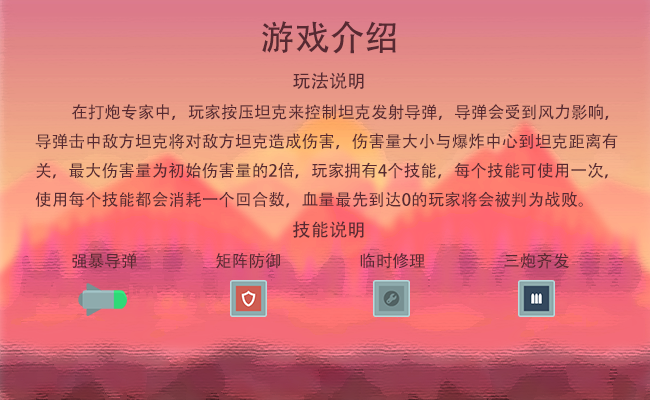
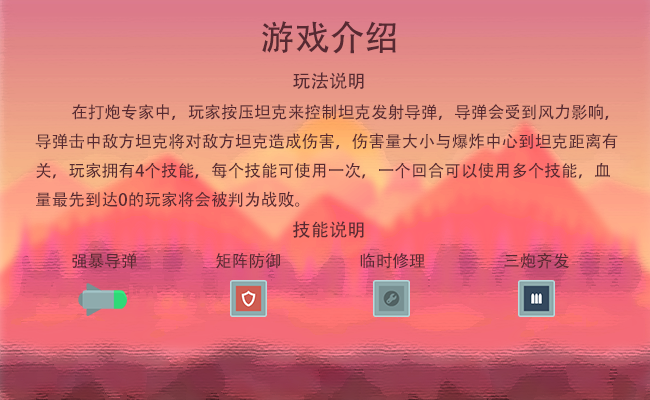
将参数修改放在了global文件里，修复了几个Bug(技能触发，出界)，隐藏了turnUI,伤害量的计算还没做好

Changed region(s): [[0.0923, 0.39, 0.9538, 0.45], [0.0308, 0.48, 0.8923, 0.54]]

diff --git a/Classes/FireMaster.cpp b/Classes/FireMaster.cpp
@@ -130,12 +130,13 @@ void FireMaster::addSprite() {
 	topUI->setScale(1.4, 1.3);
 	this->addChild(topUI, 4);
 
+#ifdef DEBUG
     turnUI = Label::createWithTTF("Round:0 right", "fonts/arial.ttf", 36);
     turnUI->setAnchorPoint(Point(0.5, 0.5));
     turnUI->setPosition(visibleSize.width / 2, visibleSize.height - 180);
     //turnUI->setScale(1.4, 1.3);
     this->addChild(turnUI, 1);
-#ifdef DEBUG
+
     this->schedule(schedule_selector(FireMaster::updateTurnUI), 0.1);
 #endif
 
@@ -270,11 +271,12 @@ void FireMaster::updateBulletVelocity(float ft) {
 			auto vX = bullet->getPhysicsBody()->getVelocity().x;
 			auto vY = bullet->getPhysicsBody()->getVelocity().y;
 			//具体加速度参数到时候再改
-			bullet->getPhysicsBody()->setVelocity(Vec2(vX + F * 5, vY));
+			bullet->getPhysicsBody()->setVelocity(Vec2(vX + F * Global::windPower, vY));
 		}
 	}
 }
 
+//进入下一回合
 void FireMaster::nextTurn()
 {
 	if (Global::isGameover) return;
@@ -314,10 +316,10 @@ void FireMaster::nextTurn()
 	waitClock->setVisible(true);
 }
 
+//debug模式下才会开启
 void FireMaster::updateTurnUI(float ft)
 {
 	if (Global::isGameover) return;
-
     auto curr_turn = std::to_string(Global::turn);
     auto side = ((Global::turn % 2) == 0) ? "right" : "left";
     auto newstr = "Round:" + curr_turn + " " + side;
@@ -358,11 +360,13 @@ void FireMaster::updateCollision(float ft)
         this->addChild(rectNode, 2);
 #endif
 
-
-        if (bpos.x < 0 || bpos.y < 0 || bpos.x > visibleSize.width) {
+		//出界判断, 运行在界外因为风力吹回来
+        if (bpos.x < -100 || bpos.y < 0 || bpos.x > visibleSize.width + 100) {
             b->removeFromParentAndCleanup(true);
             Global::bullets.pop_front();
-			nextTurn();
+			if (Global::bullets.empty()) {
+				nextTurn();
+			}
             return;
         }
 
@@ -378,21 +382,30 @@ void FireMaster::updateCollision(float ft)
 			Rect rect = Rect(bpos.x - 125, bpos.y - 125, 250, 250);
 			//判断子弹和坦克中心点距离
 			float distance;
+
 			//炸到了yellowtank
 			if (m_checkingRects[4].intersectsRect(rect)) {
 				distance =sqrt((bpos.x - yellowTank->getPosition().x)*(bpos.x - yellowTank->getPosition().x)
 					+(bpos.y - yellowTank->getPosition().y)*(bpos.y - yellowTank->getPosition().y));
 
+				CCString* ns = CCString::createWithFormat("bx = %f, tx = %f, by = %f, ty = %f", bpos.x, blueTank->getPosition().x, bpos.y, blueTank->getPosition().y);
+				CCLOG(ns->getCString());
+
 				float currentHp = hp2->getPercentage();
-				//0.6是暂定的，调整这个比例可以控制扣血的量
 
                 if (!defence2->isVisible()) {
-                    currentHp -= 0.06 * (31 - distance / 10) * b->getHurtness();
+					auto subHp = (31 - distance / 10) / 23 * b->getHurtness();
+
+					ns = CCString::createWithFormat("distance = %f, hurt = %f", distance, subHp);
+					CCLOG(ns->getCString());
+
+                    currentHp -= subHp;
                 }
                 else {
                     defence2->setVisible(false);
                 }
            
+				//测试gameover
 				//currentHp = 0;
 
 				hp2->setProgress(currentHp);
@@ -406,18 +419,29 @@ void FireMaster::updateCollision(float ft)
 
 			//炸到了bluetank
 			if (m_checkingRects[5].intersectsRect(rect)) {
+
 				distance = sqrt((bpos.x - blueTank->getPosition().x)*(bpos.x - blueTank->getPosition().x)
 					+ (bpos.y - blueTank->getPosition().y)*(bpos.y - blueTank->getPosition().y));
 
+				CCString* ns = CCString::createWithFormat("bx = %f, tx = %f, by = %f, ty = %f", bpos.x, blueTank->getPosition().x, bpos.y, blueTank->getPosition().y);
+				CCLOG(ns->getCString());
+				
+
 				float currentHp = hp1->getPercentage();
-				//0.6是暂定的，调整这个比例可以控制扣血的量
+
                 if (!defence1->isVisible()) {
-                    currentHp -= 0.06 * (31 - distance / 10) * b->getHurtness();
+					auto subHp = (31 - distance / 10) / 23 * b->getHurtness();
+
+					ns = CCString::createWithFormat("distance = %f, hurt = %f",distance, subHp);
+					CCLOG(ns->getCString());
+
+					currentHp -= subHp;
                 }
                 else {
                     defence1->setVisible(false);
                 }
 
+				//测试gameover
 				//currentHp = 0;
 
 				hp1->setProgress(currentHp <= 0 ? 0 : currentHp);
@@ -442,7 +466,9 @@ void FireMaster::updateCollision(float ft)
                 CallFunc::create(
                     [explosion, this]() {
                         explosion->removeFromParentAndCleanup(true);
-				        FireMaster::nextTurn();
+						if (Global::bullets.empty()) {
+							nextTurn();
+						}
             }), nullptr);
 
             explosion->runAction(seq);
@@ -480,12 +506,18 @@ void FireMaster::Gameover() {
 	Sequence* s[3];
 	s[0] = Sequence::create(CallFunc::create([&]() {
 		booms[0]->setVisible(true);
+		//爆炸音效
+		SimpleAudioEngine::getInstance()->playEffect("music/explosion.wav");
 	}), exAnimate, remove0, nullptr);
 	s[1] = Sequence::create(DelayTime::create(0.1f), CallFunc::create([&]() {
 		booms[1]->setVisible(true);
+		//爆炸音效
+		SimpleAudioEngine::getInstance()->playEffect("music/explosion.wav");
 	}), exAnimate, remove1, nullptr);
 	s[2] = Sequence::create(DelayTime::create(0.2f), CallFunc::create([&]() {
 		booms[2]->setVisible(true);
+		//爆炸音效
+		SimpleAudioEngine::getInstance()->playEffect("music/explosion.wav");
 	}), exAnimate, remove2, nullptr);
 
 	for (int i = 0; i < 3; ++i)
@@ -493,8 +525,8 @@ void FireMaster::Gameover() {
 
 	cocos2d::Director::getInstance()->getEventDispatcher()->removeAllEventListeners();
 
-	auto str = Sequence::create(DelayTime::create(1.0f), CallFunc::create([&]() {
-		Director::getInstance()->replaceScene(TransitionCrossFade::create(0.8f, replayView::createScene()));
+	auto str = Sequence::create(DelayTime::create(0.6f), CallFunc::create([&]() {
+		Director::getInstance()->replaceScene(TransitionCrossFade::create(0.6f, replayView::createScene()));
 	}), nullptr);
 
 	this->runAction(str);
@@ -505,7 +537,7 @@ void FireMaster::Gameover() {
 void FireMaster::powerBullet_Btn1_click(Ref * sender)
 {
 	SimpleAudioEngine::getInstance()->playEffect("music/click.wav");
-    if (Global::turn % 2 == 1 && powerBullet_Btn1->isEnabled()) {
+    if (Global::turn % 2 == 1 && powerBullet_Btn1->isEnabled() && Global::bullets.empty()) {
         powerBullet_Btn1->setEnabled(false);
         powerBullet_Btn1->setVisible(false);
         blueTank->setCurrBulletName("tank_bullet4.png");
@@ -514,7 +546,7 @@ void FireMaster::powerBullet_Btn1_click(Ref * sender)
 void FireMaster::fix_Btn1_click(Ref * sender)
 {
 	SimpleAudioEngine::getInstance()->playEffect("music/click.wav");
-    if (Global::turn % 2 == 1 && fix_Btn1->isEnabled()) {
+    if (Global::turn % 2 == 1 && fix_Btn1->isEnabled() && Global::bullets.empty()) {
         fix_Btn1->setEnabled(false);
         fix_Btn1->setVisible(false);
         float currentHp = hp1->getPercentage();
@@ -526,7 +558,7 @@ void FireMaster::fix_Btn1_click(Ref * sender)
 void FireMaster::defence_Btn1_click(Ref * sender)
 {
 	SimpleAudioEngine::getInstance()->playEffect("music/click.wav");
-    if (Global::turn % 2 == 1 && defence_Btn1->isEnabled()) {
+    if (Global::turn % 2 == 1 && defence_Btn1->isEnabled() && Global::bullets.empty()) {
         defence1->setVisible(true);
         defence_Btn1->runAction(FadeOut::create(0.5));
         defence_Btn1->setEnabled(false);
@@ -536,7 +568,7 @@ void FireMaster::defence_Btn1_click(Ref * sender)
 void FireMaster::triAttack_Btn1_click(Ref * sender)
 {
 	SimpleAudioEngine::getInstance()->playEffect("music/click.wav");
-    if (Global::turn % 2 == 1 && triAttack_Btn1->isEnabled()) {
+    if (Global::turn % 2 == 1 && triAttack_Btn1->isEnabled() && Global::bullets.empty()) {
         triAttack_Btn1->setEnabled(false);
         triAttack_Btn1->setVisible(false);
         triAttack_Btn1->runAction(FadeOut::create(0.5));
@@ -546,7 +578,7 @@ void FireMaster::triAttack_Btn1_click(Ref * sender)
 void FireMaster::powerBullet_Btn2_click(Ref * sender)
 {
 	SimpleAudioEngine::getInstance()->playEffect("music/click.wav");
-    if (Global::turn % 2 == 0 && powerBullet_Btn2->isEnabled()) {
+    if (Global::turn % 2 == 0 && powerBullet_Btn2->isEnabled() && Global::bullets.empty()) {
         powerBullet_Btn2->setEnabled(false);
         powerBullet_Btn2->setVisible(false);
         powerBullet_Btn2->runAction(FadeOut::create(0.5));
@@ -556,7 +588,7 @@ void FireMaster::powerBullet_Btn2_click(Ref * sender)
 void FireMaster::fix_Btn2_click(Ref * sender)
 {
 	SimpleAudioEngine::getInstance()->playEffect("music/click.wav");
-    if (Global::turn % 2 == 0 && fix_Btn2->isEnabled()) {
+    if (Global::turn % 2 == 0 && fix_Btn2->isEnabled() && Global::bullets.empty()) {
         fix_Btn2->setEnabled(false);
         fix_Btn2->setVisible(false);
         fix_Btn2->runAction(FadeOut::create(0.5));
@@ -568,7 +600,7 @@ void FireMaster::fix_Btn2_click(Ref * sender)
 void FireMaster::defence_Btn2_click(Ref * sender)
 {
 	SimpleAudioEngine::getInstance()->playEffect("music/click.wav");
-    if (Global::turn % 2 == 0 && defence_Btn2->isEnabled()) {
+    if (Global::turn % 2 == 0 && defence_Btn2->isEnabled() && Global::bullets.empty()) {
         defence_Btn2->setEnabled(false);
         defence_Btn2->setVisible(false);
         defence2->setVisible(true);
@@ -578,7 +610,7 @@ void FireMaster::defence_Btn2_click(Ref * sender)
 void FireMaster::triAttack_Btn2_click(Ref * sender)
 {  
 	SimpleAudioEngine::getInstance()->playEffect("music/click.wav");
-    if (Global::turn % 2 == 0) {
+    if (Global::turn % 2 == 0 && triAttack_Btn2->isEnabled() && Global::bullets.empty()) {
         triAttack_Btn2->setEnabled(false);
         triAttack_Btn2->setVisible(false);
         triAttack_Btn2->runAction(FadeOut::create(0.5));

diff --git a/Classes/BlueTank.cpp b/Classes/BlueTank.cpp
@@ -1,6 +1,5 @@
 #include "BlueTank.h"
 #include "Bullet.h"
-#include "Global.h"
 #include "Progress.h"
 #include "FireMaster.h"
 #include "SimpleAudioEngine.h"
@@ -151,7 +150,7 @@ void BlueTank::runAttack()
         // 利用m_power设置好子弹的杀伤力。在FireMaster场景类里面进行调度检测碰撞。
         auto curr_bullet_hurt = m_basic_hurt;
         if (this->curr_bullet_name == "tank_bullet4.png") {
-            curr_bullet_hurt += 15;
+            curr_bullet_hurt = Global::bigBullet;
         }
         auto b = Bullet::create(this->curr_bullet_name, curr_bullet_hurt);
         // 子弹相关属性设置，还需要调整

diff --git a/Classes/YellowTank.cpp b/Classes/YellowTank.cpp
@@ -1,5 +1,4 @@
 #include "YellowTank.h"
-#include "Global.h"
 #include "Progress.h"
 #include "AppDelegate.h"
 #include "FireMaster.h"
@@ -155,7 +154,7 @@ void YellowTank::runAttack()
         // 利用m_power设置好子弹的杀伤力。在FireMaster场景类里面进行调度检测碰撞。
         auto curr_bullet_hurt = m_basic_hurt;
         if (this->curr_bullet_name == "tank_bullet4.png") {
-            curr_bullet_hurt += 15;
+			curr_bullet_hurt = Global::bigBullet;
         }
         auto b = Bullet::create(this->curr_bullet_name, curr_bullet_hurt);
         b->setPosition(this->getPosition().x - 30, this->getPosition().y + 40);

diff --git a/README.md b/README.md
@@ -8,7 +8,7 @@ A funny cocos2dx game ! Learn From the idea of a game called Fleabag Vs. Mutt.
 打炮专家是一款Q版的回合制射击类双人对战游戏。夕阳下，玩家将在父子局对战中击败对手证明自己无人能敌的打炮能力。
 
 ### 1. 玩法说明
-玩家通过在自己回合中通过改变按压坦克时间长短来控制坦克发射导弹的力度，导弹在飞行过程中会受到风力影响，导弹击中敌方坦克将会爆炸并对敌方坦克造成伤害，伤害量的大小与爆炸中心到坦克距离有关，最大伤害量为初始伤害量的2倍，期间玩家可通过使用技能调整战略，每个技能可使用一次，同时使用每个技能消耗一个回合数，血量最先到达0的玩家将会被判为战败。
+玩家通过在自己回合中通过改变按压坦克时间长短来控制坦克发射导弹的力度，导弹在飞行过程中会受到风力影响，导弹击中敌方坦克将会爆炸并对敌方坦克造成伤害，伤害量的大小与爆炸中心到坦克距离有关，最大伤害量为初始伤害量的2倍，期间玩家可通过使用技能调整战略，每个技能可使用一次，一个回合可以使用多个技能，血量最先到达0的玩家将会被判为战败。
 ### 2. 技能说明
 ![](https://raw.githubusercontent.com/mgsweet/FireMaster/master/project_images/bullet.png)
 普通炮弹 普通伤害10%-20% 可用次数无限
